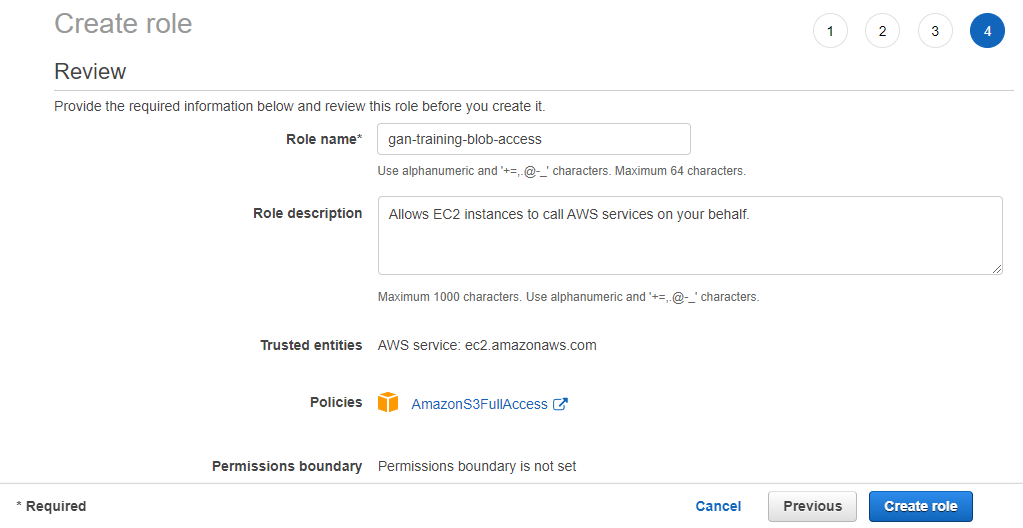
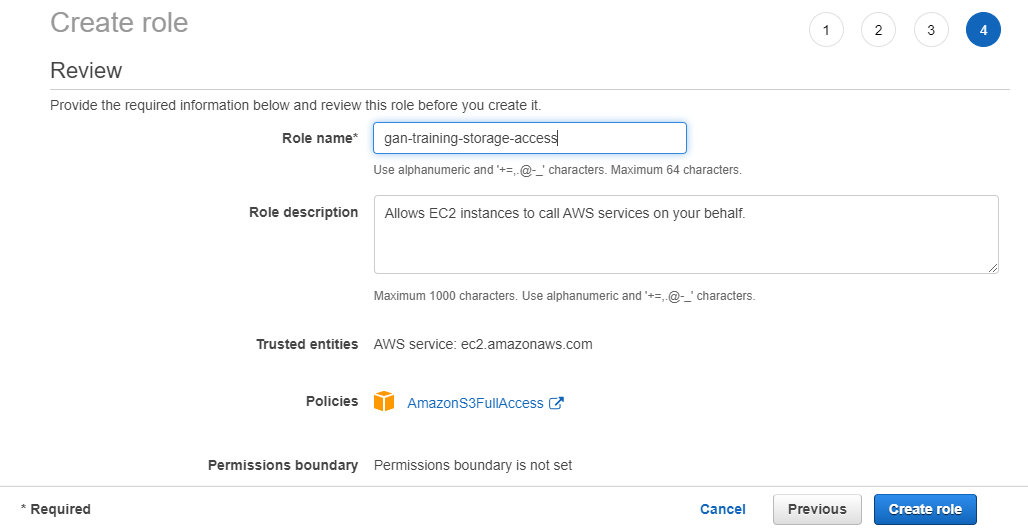
updated AWS run instructions

diff --git a/README.md b/README.md
@@ -5,27 +5,33 @@ Documenting an automated process for training and monitoring GAN models in AWS, 
 ## Table of Contents
 
 * [Dependencies](#dependencies)
+* [Overview](#overview)
+  * [Training and Monitor Repositories](#training-and-monitor-repositories)
 * [AWS](#aws)
-  * [VM Setup](#vm-setup)
-  * [Training](#training)
-  * [VM Teardown](#vm-teardown)
+  * [AWS Cloud Storage Setup](#aws-cloud-storage-setup)
+  * [AWS Training](#aws-training)
+  * [AWS Training Teardown](#aws-training-teardown)
 
 ## Dependencies
 
-* [Model training repository](https://github.com/sem-onyalo/gan-training-model)
-* [Model training monitor repository](https://github.com/sem-onyalo/gan-training-monitor-flask)
+* Terraform==1.0.10
 * Infrastructure as code repositories
   * [AWS IaC repository](https://github.com/sem-onyalo/gan-training-iac-aws-terraform)
   * [Azure IaC repository](https://github.com/sem-onyalo/gan-training-iac-azure-terraform)
   * [GCP IaC repository](https://github.com/sem-onyalo/gan-training-iac-gcp-terraform)
 
-## Setup
+## Overview
 
-To setup training you'll need to create access roles for the VMs to write the training artifacts to blob storage. Then you'll need to clone the IaC repository for your chosen cloud provider.
+The first step is to setup access for the training and monitoring scripts running on their VMs to read and write to blob storage. Then you'll need to clone the Infrastructure as Code (IaC) repository for your chosen cloud provider.
 
-### Cloud Setup
+### Training and Monitor Repositories
 
-#### AWS
+* [Model training repository](https://github.com/sem-onyalo/gan-training-model)
+* [Model training monitor repository](https://github.com/sem-onyalo/gan-training-monitor-flask)
+
+## AWS
+
+### AWS Cloud Storage Setup
 
 1. Navigate to the IAM service page.
 
@@ -51,6 +57,40 @@ To setup training you'll need to create access roles for the VMs to write the tr
 
     ![AWS role tags](imgs/aws/setup/6-role-tags.png)
 
-7. Enter the text "gan-training-blob-access" into the `Role name` text box and then click the `Create role` button.
+7. Enter the text "gan-training-storage-access" into the `Role name` text box and then click the `Create role` button.
 
     ![AWS create role final](imgs/aws/setup/7-create-role.png)
+
+### AWS Training
+
+1. Open a new terminal, `cd` to your local code folder and clone the AWS IaC repository. Note that you will need to have local access to your AWS account (i.e. `aws configure`) to perform the following steps.
+
+    ```
+    cd ~/code
+    
+    git clone https://github.com/sem-onyalo/gan-training-iac-aws-terraform.git
+
+    cd gan-training-iac-aws-terraform
+    ```
+
+2. Execute the `./run` bash script contained in the repository with the specified AWS specific commands.
+
+    ```
+    ./run -c 'python3 main.py --train -c aws_s3' -f 'python3 app.py -s aws_s3'
+    ```
+
+3. After the script finishes executing it will output the IP address of the VM hosting the monitoring page. Use that IP and port `8080` to monitor the training (for example, http://35.88.174.24:8080). Note that data on the webpage will not show up right away because the training VM needs time to spin up, install the required libraries and initialize the GPU for training.
+
+    ![Monitoring server IP address output](imgs/aws/train/1-monitoring-server-ip.png)
+
+3. You can use the `Evaluation epochs` dropdown to view the loss/accuracy plots, the generated images and the mini-batch training metrics for the selected evaluation epoch. This should help you to pick the model that generates the best images. Models for each evaluation epoch are stored in an S3 bucket called `gan-training-storage`.
+
+    ![AWS storage container](imgs/aws/train/3-storage-container.png)
+
+### AWS Training Teardown
+
+**IMPORTANT:** Remember to destroy the training VM when you have completed training and/or have downloaded your desired model, as it [costs money to keep up and running](https://aws.amazon.com/ec2/instance-types/p3/). You can destroy the resources with the following command.
+
+```
+terraform destroy -auto-approve
+```
